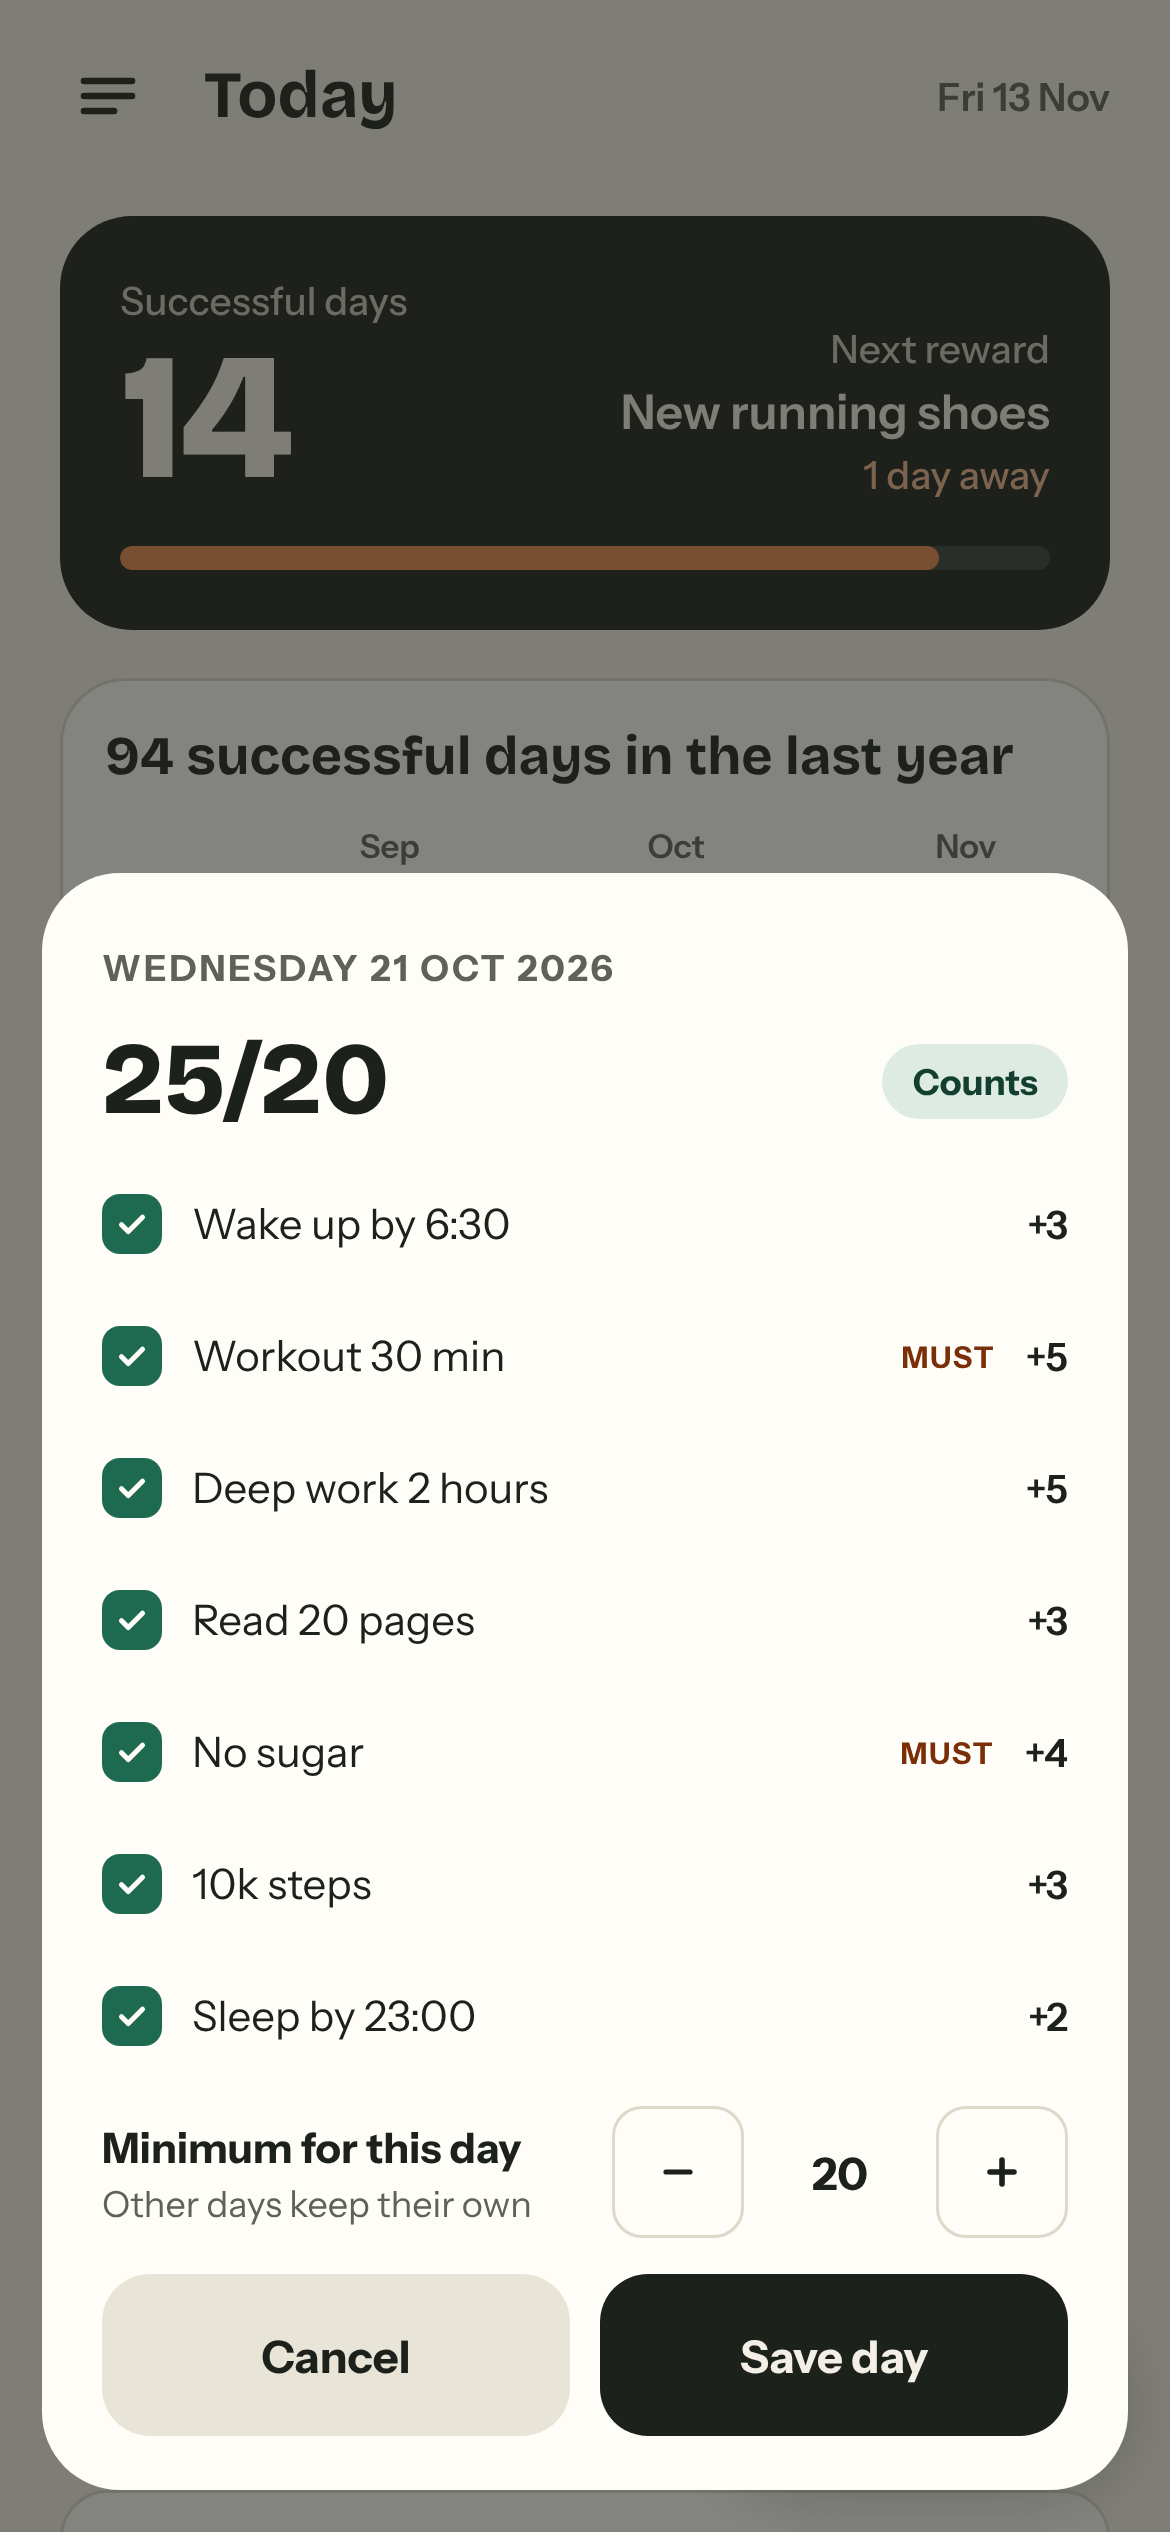
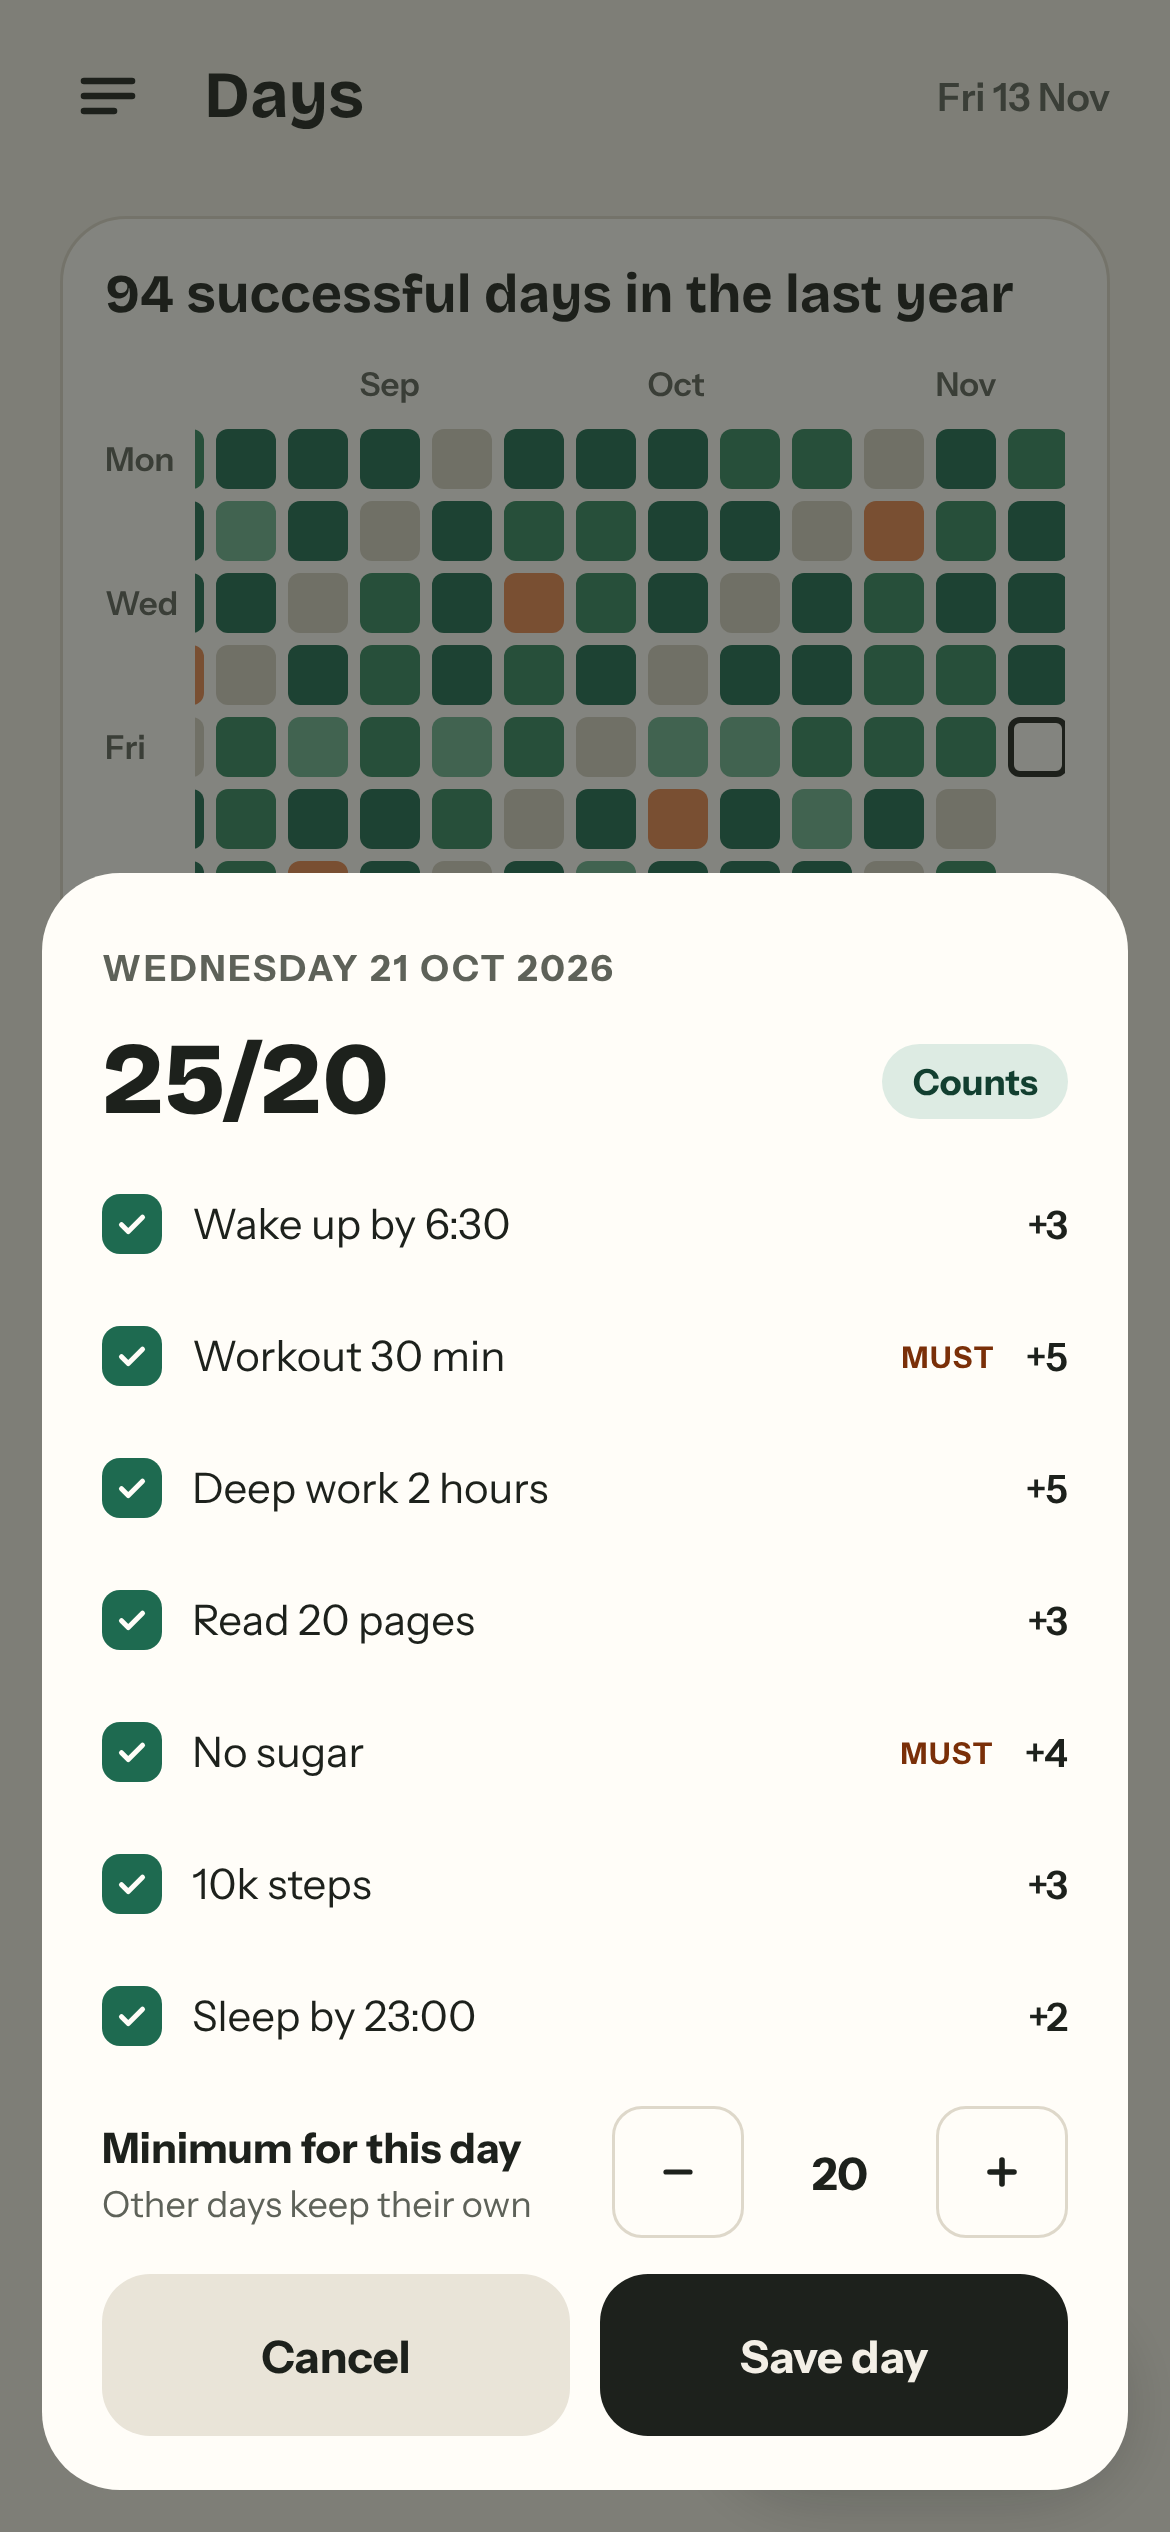
Improvement 2.4: year grid on the Days page only
Removes the grid from Today; it stays at the top of Days. Tapping the
open day in the grid now jumps to the task list on Today. Screenshots
regenerated.

Claude-Session: https://claude.ai/code/session_01WwdsnTW3UTc3W3jR5Fsnqe

Changed region(s): [[0.0308, 0.0312, 0.9538, 0.3432]]

diff --git a/stations-android/assets/app.js b/stations-android/assets/app.js
@@ -441,7 +441,7 @@
         cls = h.result === 'count' ? 'g-count l' + countLevel(h) : 'g-' + h.result;
         label += ': ' + h.score + '/' + h.minScore + ', ' + CELL_WORDS[h.result];
         act = ' data-a="gDay" data-date="' + d + '"';
-      } else if (d >= S.today) { cls = 'g-open'; label += ': open — tick your tasks above'; act = ' data-a="gOpen"'; }
+      } else if (d >= S.today) { cls = 'g-open'; label += ': open — tap to tick your tasks on Today'; act = ' data-a="gOpen"'; }
       else { cls = 'g-none'; label += ': no record — tap to add'; act = ' data-a="gDay" data-date="' + d + '"'; }
       if (d === real) cls += ' g-today';
       cells += '<button type="button" class="g ' + cls + '"' + act + ' aria-label="' + label + '"></button>';
@@ -483,7 +483,6 @@
       '<section class="hero" aria-label="Progress"><div class="hero-top"><div class="col" style="gap:4px"><span class="hero-label">Successful days</span><span class="hero-count">' + S.counter + '</span></div>' +
       '<div class="hero-next"><span class="hero-label">Next reward</span><span class="hero-next-name">' + esc(next ? next.name : 'All reached') + '</span><span class="hero-next-away">' + esc(nextAway) + '</span></div></div>' +
       '<div class="bar"><div style="width:' + nextPct + '%"></div></div></section>' +
-      renderGraph() +
       '<section class="score ' + st.cls + '" aria-label="Today\'s score"><div class="ring"><svg width="84" height="84" viewBox="0 0 92 92" aria-hidden="true">' +
       '<circle cx="46" cy="46" r="38" fill="none" stroke="#FFFDF8" stroke-width="9"/>' +
       (pct > 0 ? '<circle class="prog" cx="46" cy="46" r="38" fill="none" stroke="' + (ev.score >= min ? '#1E6A50' : '#1D211C') + '" stroke-width="9" stroke-linecap="round" stroke-dasharray="' + (pct * C).toFixed(2) + ' ' + C + '" transform="rotate(-90 46 46)"/>' : '') +
@@ -958,7 +957,7 @@
       }
       render();
     },
-    gOpen: function () { var t = document.querySelector('.goal'); if (t) t.scrollIntoView({ behavior: 'smooth', block: 'center' }); },
+    gOpen: function () { go('today'); var t = document.querySelector('.goal'); if (t) t.scrollIntoView({ block: 'center' }); },
     gOlder: function () { ui.graphYears++; ui.graphScroll = 0; render(); },
     mdItem: function (el) { var i = Number(el.getAttribute('data-i')); ui.modal.done[i] = !ui.modal.done[i]; render(); },
     mdMin: function (el) {

diff --git a/stations-android/README.md b/stations-android/README.md
@@ -36,7 +36,7 @@ lives in memory, so every fresh start of the app asks for the code.
   automatically with whatever was ticked.
 - **Editing past days**: Days → open a day → "Edit this day" (check-ins and that day's minimum);
   later days are recounted. Changing the minimum in Settings applies from the open day on.
-- **Year grid** (top of Today and Days): GitHub-style, one column per week, at least a year, scrolls sideways
+- **Year grid** (top of the Days page): GitHub-style, one column per week, at least a year, scrolls sideways
   ("Older" adds a year). Tap any past day to edit it; days without a record can be added and
   are inserted in date order before the counter is recalculated.
 - **Urges**: an urge saved as "relapsed" moves NoFap "clean since" to that day.
